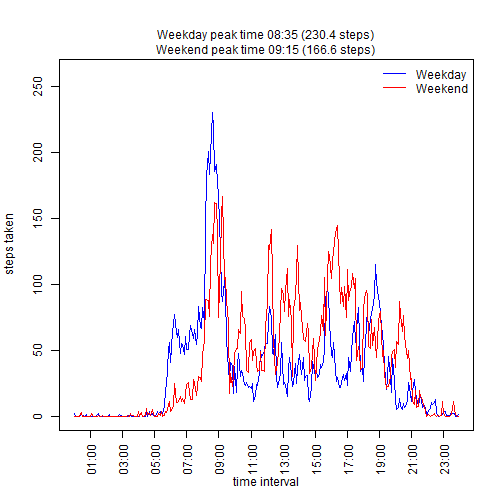
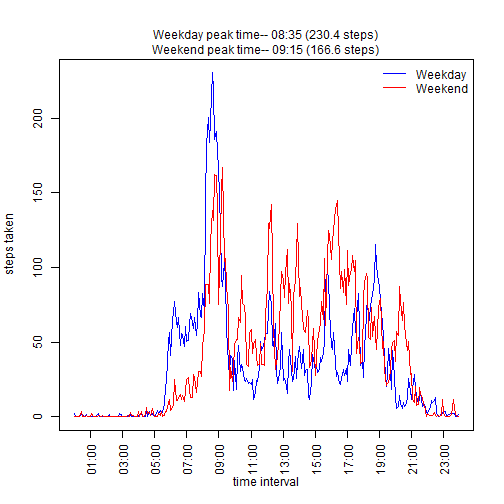
commit 19Sep2015
minor changes to codes (add line breaks) and figure 4

diff --git a/PA1_template.html b/PA1_template.html
@@ -246,16 +246,19 @@ of steps taken, averaged across all days (y-axis).<br/></li>
 dataset, contains the maximum number of steps.<br/></li>
 </ol>
 
-<pre><code class="r">plot(StepsOverTime, type=&quot;l&quot;, xaxt=&quot;n&quot;, xlab=&quot;time interval&quot;, ylab=&quot;steps taken&quot;, ylim=c(0, max(StepsOverTime)+50), main=&quot;Average daily activity pattern&quot;)
+<pre><code class="r">plot(StepsOverTime, type=&quot;l&quot;, xaxt=&quot;n&quot;, xlab=&quot;time interval&quot;, ylab=&quot;steps taken&quot;,
+     ylim=c(0, max(StepsOverTime)+50), main=&quot;Average daily activity pattern&quot;)
 
   peak &lt;- which(StepsOverTime==max(StepsOverTime))
   #change interval into time by 1) stick 0s into all numbers to make them 4 digits
   # 2) change to date-time format, and 3) pick character 12-16, which is the time
-  times &lt;- substr(as.POSIXct(sprintf(&quot;%04.0f&quot;, as.numeric(names(StepsOverTime))), format=&quot;%H%M&quot;), 12, 16)
+  times &lt;- substr(as.POSIXct(sprintf(&quot;%04.0f&quot;, as.numeric(names(StepsOverTime))), format=&quot;%H%M&quot;),
+                  12, 16)
   #define positions of round hours for x axis labeling
   rdhour &lt;- 24*c(1:12)-11
   axis(1, times[rdhour], at=rdhour, las=2)
-  text(peak, max(StepsOverTime)+20, paste(&quot;Peak time &quot;, times[peak], &quot; (&quot;, round(max(StepsOverTime),1), &quot; steps)&quot;,sep=&quot;&quot;))
+  text(peak, max(StepsOverTime)+20, paste(&quot;Peak time &quot;, times[peak], &quot; (&quot;,
+                                          round(max(StepsOverTime),1), &quot; steps)&quot;,sep=&quot;&quot;))
 </code></pre>
 
[1 lines of base64/hex data omitted]
@@ -279,11 +282,10 @@ paste(&quot;There are&quot;, length(WhichNA), &quot;missing values in the datase
 </ol>
 
 <pre><code class="r">SubAct &lt;- Activity
-
-for (i in 1:length(WhichNA)) {
-  x &lt;- WhichNA[i]
-  SubAct[x, 1] &lt;- StepsOverTime[as.character(SubAct[x,3])]
-}
+  for (i in 1:length(WhichNA)) {
+    x &lt;- WhichNA[i]
+    SubAct[x, 1] &lt;- StepsOverTime[as.character(SubAct[x,3])]
+  }
 </code></pre>
 
 <ol>
@@ -293,7 +295,8 @@ for (i in 1:length(WhichNA)) {
 <pre><code class="r">NewSPD &lt;- tapply(SubAct$steps, SubAct$date, sum)
 NewSum &lt;- summary(NewSPD)
 
-hist(NewSPD, main=&quot;Steps taken per day with imputed values&quot;, xlab=&quot;number of steps&quot;, ylab=NA, col=&quot;red&quot;)
+hist(NewSPD, main=&quot;Steps taken per day with imputed values&quot;, xlab=&quot;number of steps&quot;,
+     ylab=NA, col=&quot;red&quot;)
   text(10, 30, paste(&quot;Mean =&quot;, NewSum[&quot;Mean&quot;], &quot;\nMedian=&quot;, NewSum[&quot;Median&quot;]), pos=4)
 </code></pre>
 
@@ -323,7 +326,7 @@ hist(NewSPD, main=&quot;Steps taken per day with imputed values&quot;, xlab=&quo
 wksteps &lt;- tapply(SubAct$steps, list(SubAct$interval, SubAct$Weekday), mean)
 wksteps &lt;- as.data.frame(wksteps)
 
-plot(wksteps$Weekday, type=&quot;l&quot;, col=&quot;blue&quot;, xaxt=&quot;n&quot;, xlab=&quot;time interval&quot;, ylab=&quot;steps taken&quot;, ylim=c(0, max(wksteps$Weekday)+30))
+plot(wksteps$Weekday, type=&quot;l&quot;, col=&quot;blue&quot;, xaxt=&quot;n&quot;, xlab=&quot;time interval&quot;, ylab=&quot;steps taken&quot;)
   lines(wksteps$Weekend, type=&quot;l&quot;, col=&quot;red&quot;)
   axis(1, times[rdhour], at=rdhour, las=2)
   legend(&quot;topright&quot;, names(wksteps), lty=1, col=c(&quot;blue&quot;, &quot;red&quot;), bty=&quot;n&quot;)
@@ -331,11 +334,13 @@ plot(wksteps$Weekday, type=&quot;l&quot;, col=&quot;blue&quot;, xaxt=&quot;n&quo
   #add text above the figure since there is not much space within the border
   wkpeak &lt;- which(wksteps$Weekday == max(wksteps$Weekday))
   wdpeak &lt;- which(wksteps$Weekend == max(wksteps$Weekend))
-    mtext(paste(&quot;Weekday peak time &quot;, times[wkpeak],&quot; (&quot;, round(max(wksteps$Weekday),1), &quot; steps)&quot;, sep=&quot;&quot;), side=3, line=1.2)
-    mtext(paste(&quot;Weekend peak time &quot;, times[wdpeak],&quot; (&quot;, round(max(wksteps$Weekend),1), &quot; steps)&quot;, sep=&quot;&quot;), side=3, line=0.2)
+    mtext(paste(&quot;Weekday peak time-- &quot;, times[wkpeak],&quot; (&quot;, round(max(wksteps$Weekday),1),
+                &quot; steps)&quot;, sep=&quot;&quot;), side=3, line=1.2)
+    mtext(paste(&quot;Weekend peak time-- &quot;, times[wdpeak],&quot; (&quot;, round(max(wksteps$Weekend),1),
+                &quot; steps)&quot;, sep=&quot;&quot;), side=3, line=0.2)
 </code></pre>
 
[2 lines of base64/hex data omitted]
 
 </body>
 

diff --git a/PA1_template.md b/PA1_template.md
@@ -51,16 +51,19 @@ StepsOverTime <- tapply(Activity$steps, Activity$interval, mean, na.rm=TRUE)
    dataset, contains the maximum number of steps.  
 
 ```r
-plot(StepsOverTime, type="l", xaxt="n", xlab="time interval", ylab="steps taken", ylim=c(0, max(StepsOverTime)+50), main="Average daily activity pattern")
+plot(StepsOverTime, type="l", xaxt="n", xlab="time interval", ylab="steps taken",
+     ylim=c(0, max(StepsOverTime)+50), main="Average daily activity pattern")
   
   peak <- which(StepsOverTime==max(StepsOverTime))
   #change interval into time by 1) stick 0s into all numbers to make them 4 digits
   # 2) change to date-time format, and 3) pick character 12-16, which is the time
-  times <- substr(as.POSIXct(sprintf("%04.0f", as.numeric(names(StepsOverTime))), format="%H%M"), 12, 16)
+  times <- substr(as.POSIXct(sprintf("%04.0f", as.numeric(names(StepsOverTime))), format="%H%M"),
+                  12, 16)
   #define positions of round hours for x axis labeling
   rdhour <- 24*c(1:12)-11
   axis(1, times[rdhour], at=rdhour, las=2)
-  text(peak, max(StepsOverTime)+20, paste("Peak time ", times[peak], " (", round(max(StepsOverTime),1), " steps)",sep=""))
+  text(peak, max(StepsOverTime)+20, paste("Peak time ", times[peak], " (",
+                                          round(max(StepsOverTime),1), " steps)",sep=""))
 ```
 
 ![plot of chunk unnamed-chunk-5](figure/unnamed-chunk-5-1.png) 
@@ -86,11 +89,10 @@ paste("There are", length(WhichNA), "missing values in the dataset!")
 
 ```r
 SubAct <- Activity
-
-for (i in 1:length(WhichNA)) {
-  x <- WhichNA[i]
-  SubAct[x, 1] <- StepsOverTime[as.character(SubAct[x,3])]
-}
+  for (i in 1:length(WhichNA)) {
+    x <- WhichNA[i]
+    SubAct[x, 1] <- StepsOverTime[as.character(SubAct[x,3])]
+  }
 ```
 
 4. Make a histogram of the total number of steps taken each day and Calculate and report the mean and median total number of steps taken per day.  
@@ -99,7 +101,8 @@ for (i in 1:length(WhichNA)) {
 NewSPD <- tapply(SubAct$steps, SubAct$date, sum)
 NewSum <- summary(NewSPD)
 
-hist(NewSPD, main="Steps taken per day with imputed values", xlab="number of steps", ylab=NA, col="red")
+hist(NewSPD, main="Steps taken per day with imputed values", xlab="number of steps",
+     ylab=NA, col="red")
   text(10, 30, paste("Mean =", NewSum["Mean"], "\nMedian=", NewSum["Median"]), pos=4)
 ```
 
@@ -128,7 +131,7 @@ SubAct$Weekday <- weekdays(SubAct$date)
 wksteps <- tapply(SubAct$steps, list(SubAct$interval, SubAct$Weekday), mean)
 wksteps <- as.data.frame(wksteps)
 
-plot(wksteps$Weekday, type="l", col="blue", xaxt="n", xlab="time interval", ylab="steps taken", ylim=c(0, max(wksteps$Weekday)+30))
+plot(wksteps$Weekday, type="l", col="blue", xaxt="n", xlab="time interval", ylab="steps taken")
   lines(wksteps$Weekend, type="l", col="red")
   axis(1, times[rdhour], at=rdhour, las=2)
   legend("topright", names(wksteps), lty=1, col=c("blue", "red"), bty="n")
@@ -136,8 +139,10 @@ plot(wksteps$Weekday, type="l", col="blue", xaxt="n", xlab="time interval", ylab
   #add text above the figure since there is not much space within the border
   wkpeak <- which(wksteps$Weekday == max(wksteps$Weekday))
   wdpeak <- which(wksteps$Weekend == max(wksteps$Weekend))
-    mtext(paste("Weekday peak time ", times[wkpeak]," (", round(max(wksteps$Weekday),1), " steps)", sep=""), side=3, line=1.2)
-    mtext(paste("Weekend peak time ", times[wdpeak]," (", round(max(wksteps$Weekend),1), " steps)", sep=""), side=3, line=0.2)
+    mtext(paste("Weekday peak time-- ", times[wkpeak]," (", round(max(wksteps$Weekday),1),
+                " steps)", sep=""), side=3, line=1.2)
+    mtext(paste("Weekend peak time-- ", times[wdpeak]," (", round(max(wksteps$Weekend),1),
+                " steps)", sep=""), side=3, line=0.2)
 ```
 
 ![plot of chunk unnamed-chunk-10](figure/unnamed-chunk-10-1.png) 
